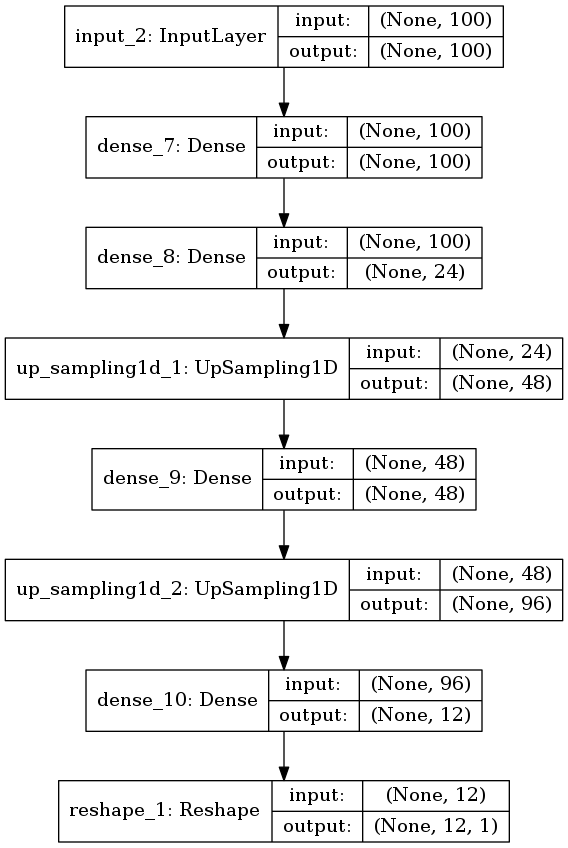
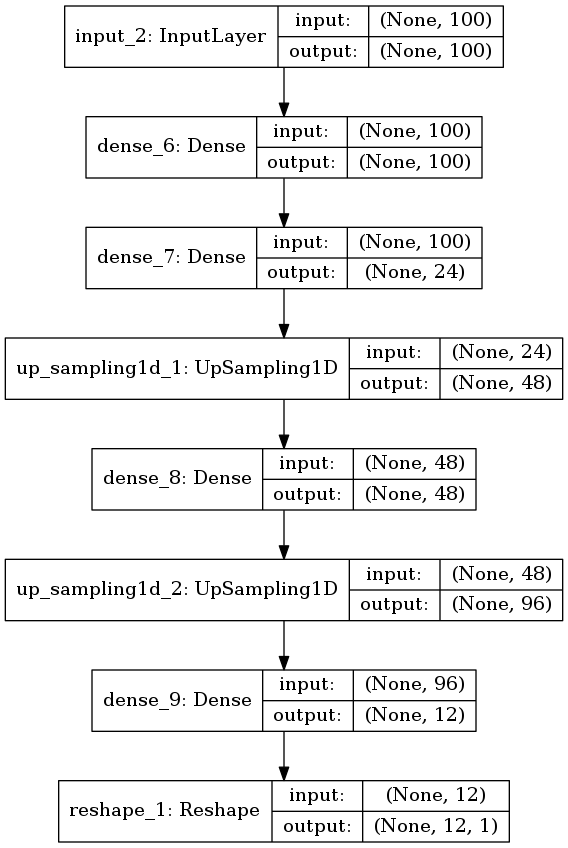
WIP

diff --git a/src/model_1_010.py b/src/model_1_010.py
@@ -48,24 +48,43 @@ def define_discriminator(in_shape=(25,1), n_classes=2):
 # plot_model(d_model, to_file='./images/discriminator2_5x5_plot.png', show_shapes=True, show_layer_names=True)
 
 # define the standalone generator model
+# def define_generator(latent_dim):
+#     # sample generator input
+#     in_lat = Input(shape=(latent_dim,))
+#     # foundation for 5x5 sample
+#     n_nodes = 100 * 1
+#     gen = Dense(n_nodes)(in_lat)
+#     gen = LeakyReLU(alpha=0.2)(gen)
+#     gen = Reshape((1, 100))(gen)
+#     # upsample to 2x2
+#     gen = UpSampling1D(size=25)(gen)
+#     gen = Conv1D(100, (3), strides=(5), padding='same')(gen)
+#     gen = LeakyReLU(alpha=0.2)(gen)
+
+#     gen = UpSampling1D(size=10)(gen)
+#     gen = Conv1D(100, (5), strides=(2), padding='same')(gen)
+#     gen = LeakyReLU(alpha=0.2)(gen)
+#     # output
+#     out_layer = Conv1D(1, (2), activation='tanh', padding='same')(gen)
+#     # define model
+#     model = Model(in_lat, out_layer)
+#     return model
+
 def define_generator(latent_dim):
-    # sample generator input
+    # image generator input
     in_lat = Input(shape=(latent_dim,))
-    # foundation for 5x5 sample
+    # foundation for 3x4 sample
     n_nodes = 100 * 1
     gen = Dense(n_nodes)(in_lat)
-    gen = LeakyReLU(alpha=0.2)(gen)
-    gen = Reshape((1, 100))(gen)
-    # upsample to 2x2
-    gen = UpSampling1D(size=25)(gen)
-    gen = Conv1D(100, (3), strides=(5), padding='same')(gen)
-    gen = LeakyReLU(alpha=0.2)(gen)
+    gen = Dense(50, activation='relu')(gen)
+    gen = UpSampling1D(size=2)(gen)
+    gen = Dense(100, activation='relu')(gen)
+    gen = UpSampling1D(size=2)(gen)
+    gen = Dense(25, activation='sigmoid')(gen)
 
-    gen = UpSampling1D(size=10)(gen)
-    gen = Conv1D(100, (5), strides=(2), padding='same')(gen)
-    gen = LeakyReLU(alpha=0.2)(gen)
+    out_layer = Reshape((25, 1))(gen)
+ 
     # output
-    out_layer = Conv1D(1, (2), activation='tanh', padding='same')(gen)
     # define model
     model = Model(in_lat, out_layer)
     return model

diff --git a/src/model_1_007.py b/src/model_1_007.py
@@ -63,7 +63,6 @@ def define_discriminator(in_shape=(12,1), n_classes=2):
     fe = Flatten()(fe)
     # dropout
     fe = Dropout(0.2)(fe)
-    c_fe = Dense(n_classes, activation='relu')(fe)
     # supervised output
     c_out_layer = Dense(1, activation='sigmoid')(fe)
     # define and compile supervised discriminator model
@@ -116,7 +115,7 @@ def define_generator(latent_dim):
     gen = UpSampling1D(size=2)(gen)
     gen = Dense(48, activation='relu')(gen)
     gen = UpSampling1D(size=2)(gen)
-    gen = Dense(12, activation='relu')(gen)
+    gen = Dense(12, activation='sigmoid')(gen)
 
     out_layer = Reshape((12, 1))(gen)
  
